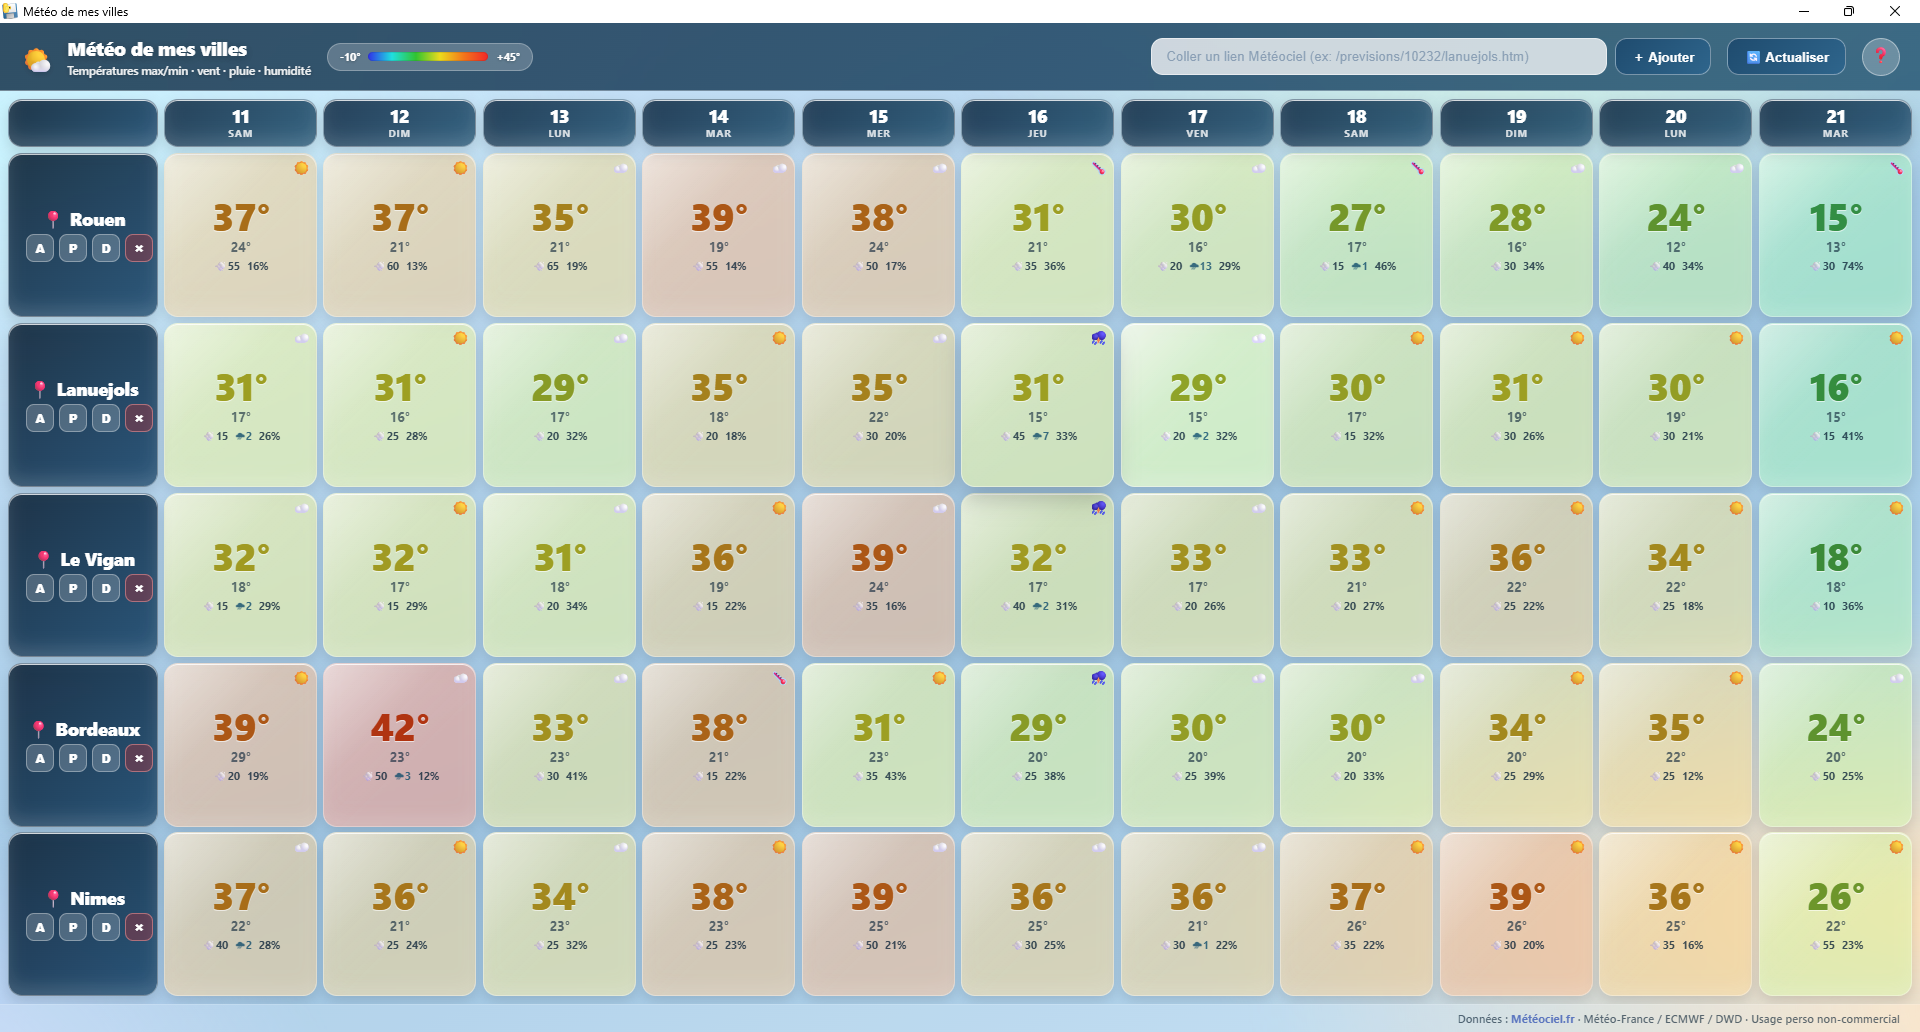
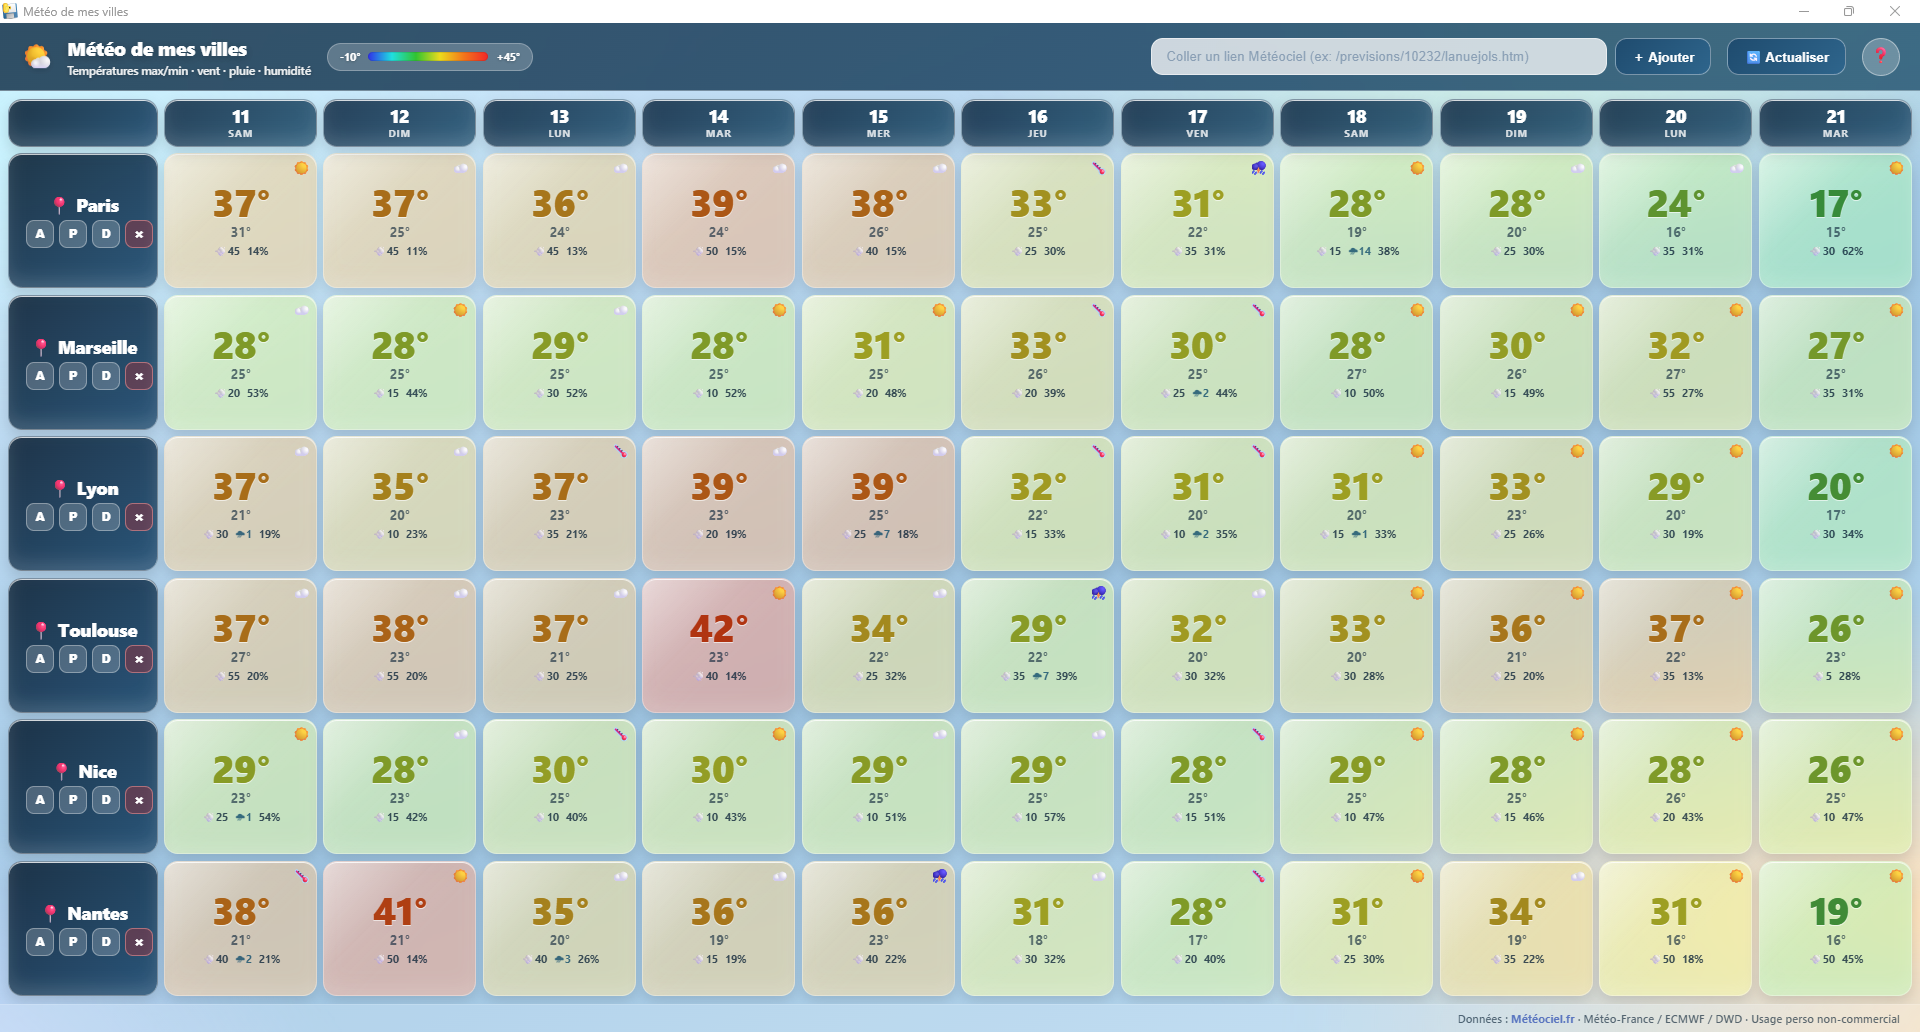
Switch to 6 major French cities + reposition as comparator with best models access

diff --git a/README.md b/README.md
@@ -1,6 +1,8 @@
 # ☀️ Météo de mes villes
 
-Application desktop autonome (Windows) qui affiche les prévisions météo de vos villes favorites dans une fenêtre native plein écran. Les données proviennent de [Météociel](https://www.meteociel.fr) et incluent les modèles **GFS** (grille principale ~11 jours) ainsi que les prévisions heure par heure **AROME**, **ARPEGE** et **ICON-D2**.
+**Comparez la météo de plusieurs villes en un coup d'œil et accédez immédiatement aux meilleurs modèles de prévision** (GFS, AROME, ARPEGE, ICON-D2). Application desktop autonome (Windows) qui affiche vos villes favorites côte à côte dans une fenêtre native plein écran.
+
+Les données proviennent de [Météociel](https://www.meteociel.fr).
 
 ![Python](https://img.shields.io/badge/Python-3.13+-blue)
 ![License](https://img.shields.io/badge/License-MIT-green)
@@ -10,8 +12,8 @@ Application desktop autonome (Windows) qui affiche les prévisions météo de vo
 
 ## ✨ Fonctionnalités
 
-- **Grille comparative** : toutes vos villes côte à côte, ~11 jours de prévisions issues du modèle **GFS** (températures max/min, vent, pluie, humidité).
-- **Prévisions horaires** : boutons **A** (AROME), **P** (ARPEGE) et **D** (ICON-D2) par ville → modale plein écran avec les prévisions heure par heure.
+- **Comparateur de villes** : toutes vos villes côte à côte en un coup d'œil, ~11 jours de prévisions issues du modèle **GFS** (températures max/min, vent, pluie, humidité).
+- **Accès immédiat aux meilleurs modèles** : boutons **A** (AROME), **P** (ARPEGE) et **D** (ICON-D2) par ville → modale plein écran avec les prévisions heure par heure. Comparez les modèles pour estimer la fiabilité d'une prévision : s'ils convergent, la tendance est fiable.
 - **Gestion des villes** : ajoutez une ville en collant un lien Météociel, supprimez-la d'un clic.
 - **Zéro cache** : à chaque lancement, l'app re-télécharge toutes les données (toujours à jour).
 - **100% autonome** : un seul fichier `.exe`, rien d'autre à installer. Les villes sont sauvegardées dans `%APPDATA%\MeteoVilles\`.

diff --git a/BUILD.md b/BUILD.md
@@ -31,6 +31,12 @@ python -m PyInstaller --noconfirm --onefile --windowed --name MeteoVilles \
   re-téléchargé depuis Météociel à chaque lancement).
 - Les villes sont persistées dans `%APPDATA%\MeteoVilles\villes.json`.
 
+## Villes par défaut
+
+Au 1er lancement, l'app propose les 6 plus grandes villes françaises :
+Paris, Marseille, Lyon, Toulouse, Nice, Nantes. Vous pouvez ensuite ajouter
+ou supprimer des villes via l'interface.
+
 ## Lancer en source (sans compiler)
 
 ```bash